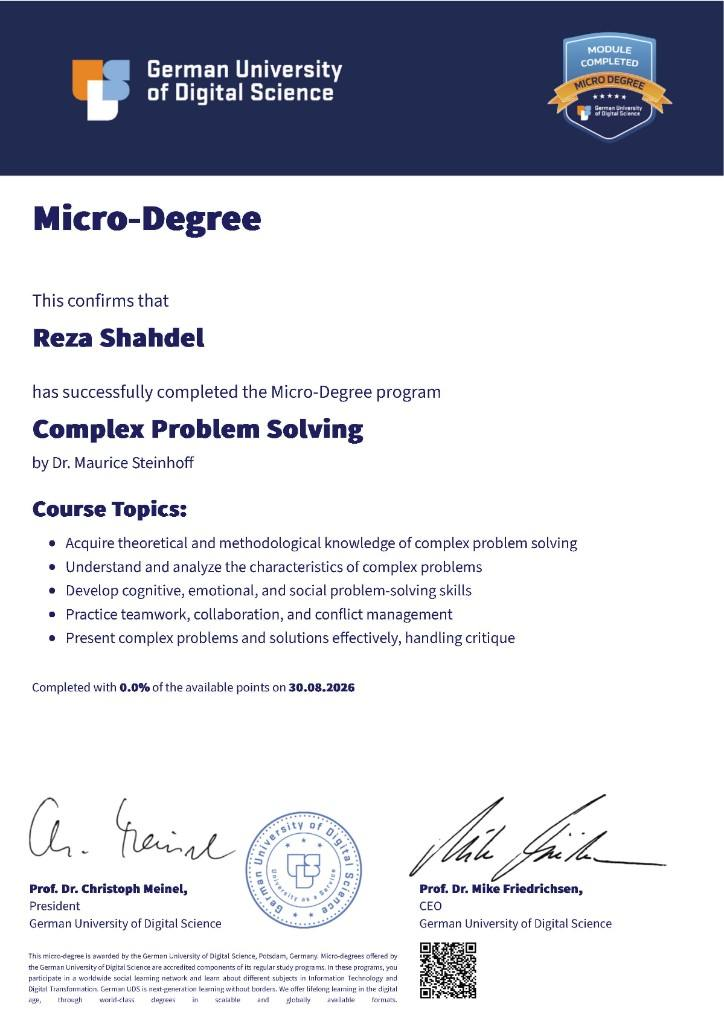
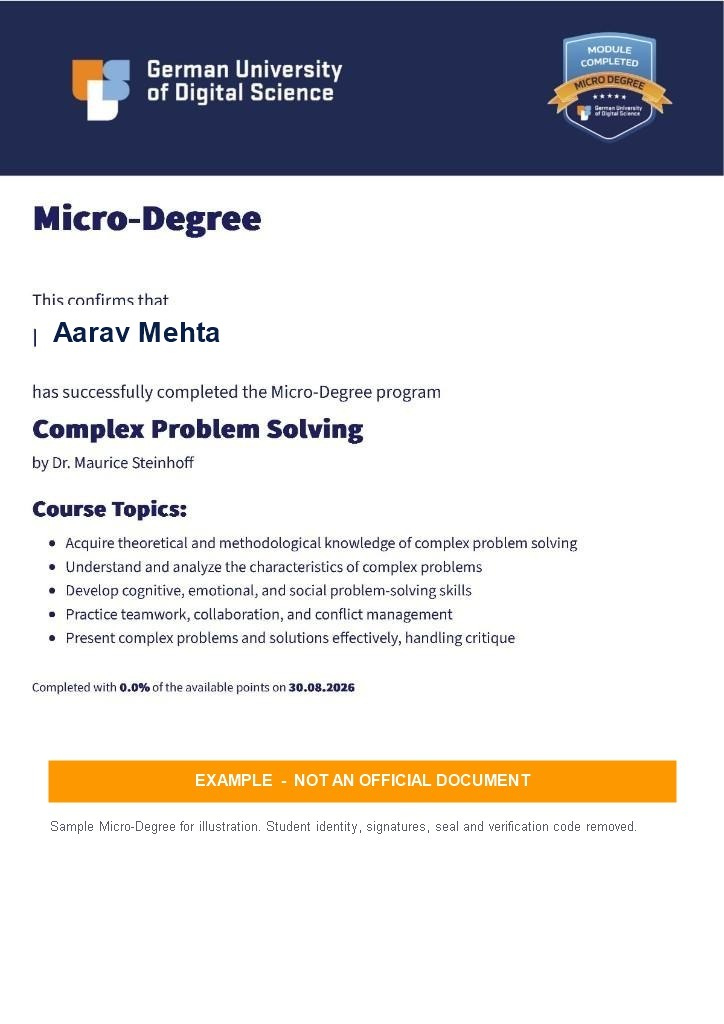
Remove confidential signatures, seal and verification codes from sample journey documents.

Changed region(s): [[0.0304, 0.7188, 0.942, 1.0], [0.0304, 0.3125, 0.3039, 0.3438]]

diff --git a/components/JourneyScroll.tsx b/components/JourneyScroll.tsx
@@ -40,14 +40,14 @@ const STAGES: Stage[] = [
     step: "02",
     kicker: "On completion",
     title: "A full, state-recognised German degree",
-    body: "You graduate with the same M.Sc. or MBA awarded in Potsdam — accredited by the German Accreditation Council and assessed by ASIIN. Not a private diploma: an official German UDS credential.",
+    body: "You graduate with the same M.Sc. or MBA awarded in Potsdam — accredited by the German Accreditation Council and assessed by ASIIN. Not a private diploma: an official German UDS credential. The certificate shown is an example only.",
     points: [
       "Awarded by German UDS, Land Brandenburg",
       "120 ECTS Master's · 60 ECTS MBA",
       "Accreditation listed on the public register",
     ],
     image: JOURNEY_IMAGES.degree,
-    alt: "Official German UDS Micro-Degree certificate",
+    alt: "Example German UDS Micro-Degree certificate (sample, signatures removed)",
     fit: "contain",
     cta: { href: "/about", label: "How accreditation works" },
   },
@@ -56,14 +56,14 @@ const STAGES: Stage[] = [
     step: "03",
     kicker: "Afterwards",
     title: "A CV that reads on the European market",
-    body: "Your résumé carries a German university postgraduate degree, taught in English. That is the credential employers screen for in Germany, across the EU and internationally.",
+    body: "Your résumé carries a German university postgraduate degree, taught in English. That is the credential employers screen for in Germany, across the EU and internationally. The CV shown is an example only.",
     points: [
       "Recognised postgraduate qualification",
       "Apply from home, Germany or remotely",
       "Eligibility to apply — never a guaranteed placement",
     ],
     image: JOURNEY_IMAGES.career,
-    alt: "Sample graduate CV with a German UDS Master's",
+    alt: "Example graduate CV with a German UDS Master's (sample, signatures removed)",
     fit: "contain",
     cta: { href: "/why-india", label: "What this does and does not promise" },
   },
@@ -201,6 +201,11 @@ export function JourneyScroll() {
             {STAGES.map((stage) => (
               <article key={stage.id} className="glass-dark overflow-hidden rounded-[18px]">
                 <div className={`relative aspect-[16/10] ${stage.fit === "contain" ? "bg-white" : "bg-black"}`}>
+                  {(stage.id === "degree" || stage.id === "career") && (
+                    <span className="absolute left-3 top-3 z-10 rounded-md bg-[#fd9800] px-2 py-1 text-[10px] font-semibold uppercase tracking-[0.14em] text-white">
+                      Example
+                    </span>
+                  )}
                   <Image
                     src={stage.image}
                     alt={stage.alt}
@@ -316,6 +321,11 @@ export function JourneyScroll() {
                         className="journey-card"
                       >
                         <div className={`relative h-full w-full overflow-hidden rounded-[22px] border border-white/15 shadow-[0_50px_120px_rgba(0,0,0,0.6)] ${stage.fit === "contain" ? "bg-white" : "bg-[#05052a]"}`}>
+                          {(stage.id === "degree" || stage.id === "career") && (
+                            <span className="absolute left-4 top-4 z-10 rounded-md bg-[#fd9800] px-2.5 py-1 text-[10px] font-semibold uppercase tracking-[0.14em] text-white">
+                              Example
+                            </span>
+                          )}
                           <Image
                             src={stage.image}
                             alt={stage.alt}
